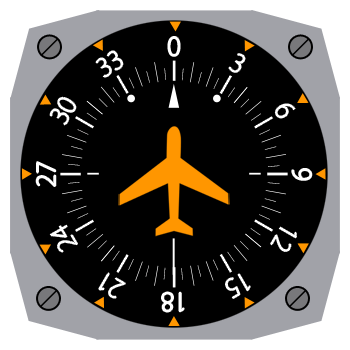
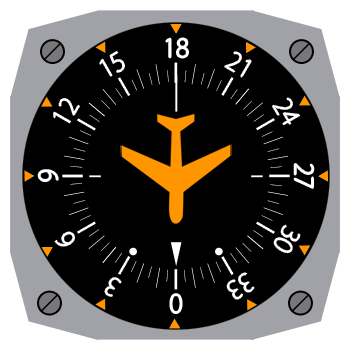
angling fixes (jesse)

diff --git a/Attempt1_1/QuatCamera.cpp b/Attempt1_1/QuatCamera.cpp
@@ -132,6 +132,33 @@ float* QuatCamera::GetInverseViewMatrix()
 	return view;
 }
 
+glm::vec3 QuatCamera::GetEulerAngles()
+{
+	float * mat4 = GetViewMatrixAsArray();
+
+	if (mat4[0] == 1.0f)
+	{
+		yaw = atan2f(mat4[2], mat4[11]);
+		pitch = 0;
+		roll = 0;
+
+	}
+	else if (mat4[0] == -1.0f)
+	{
+		yaw = atan2f(mat4[2], mat4[11]);
+		pitch = 0;
+		roll = 0;
+	}
+	else
+	{
+
+		yaw = atan2(-mat4[8], mat4[0]);
+		pitch = asin(mat4[4]);
+		roll = atan2(-mat4[6], mat4[5]);
+	}
+	return glm::vec3(RadToDeg(pitch), RadToDeg(yaw), RadToDeg(roll));
+}
+
 float QuatCamera::GetPitch()
 {
 	return (fmod(pitch, 360));

diff --git a/Attempt1_1/Attempt1_1.cpp b/Attempt1_1/Attempt1_1.cpp
@@ -289,7 +289,8 @@ int main()
         glGetFloatv(GL_MODELVIEW_MATRIX, mat);
 		
 
-        gameOverlay.Update(mat[12], mat[13], mat[14], flightSpeed, 0 - (quatCamera.GetPitch()), quatCamera.GetYaw(), quatCamera.GetRoll(), quatCamera.GetAlt() - heightmap.GetOceanPoint());
+		glm::vec3 eulers(quatCamera.GetEulerAngles());
+		gameOverlay.Update(mat[12], mat[13], mat[14], flightSpeed, eulers[2], eulers[1], eulers[0], quatCamera.GetAlt() - heightmap.GetOceanPoint());
     
         // draw the game UI
         window.pushGLStates();

diff --git a/Attempt1_1/QuatCamera.h b/Attempt1_1/QuatCamera.h
@@ -45,6 +45,8 @@ public:
 
 	float * GetInverseViewMatrix() ;
 
+	glm::vec3 GetEulerAngles();
+
 	float GetPitch();
 	float GetYaw();
 	float GetRoll();
